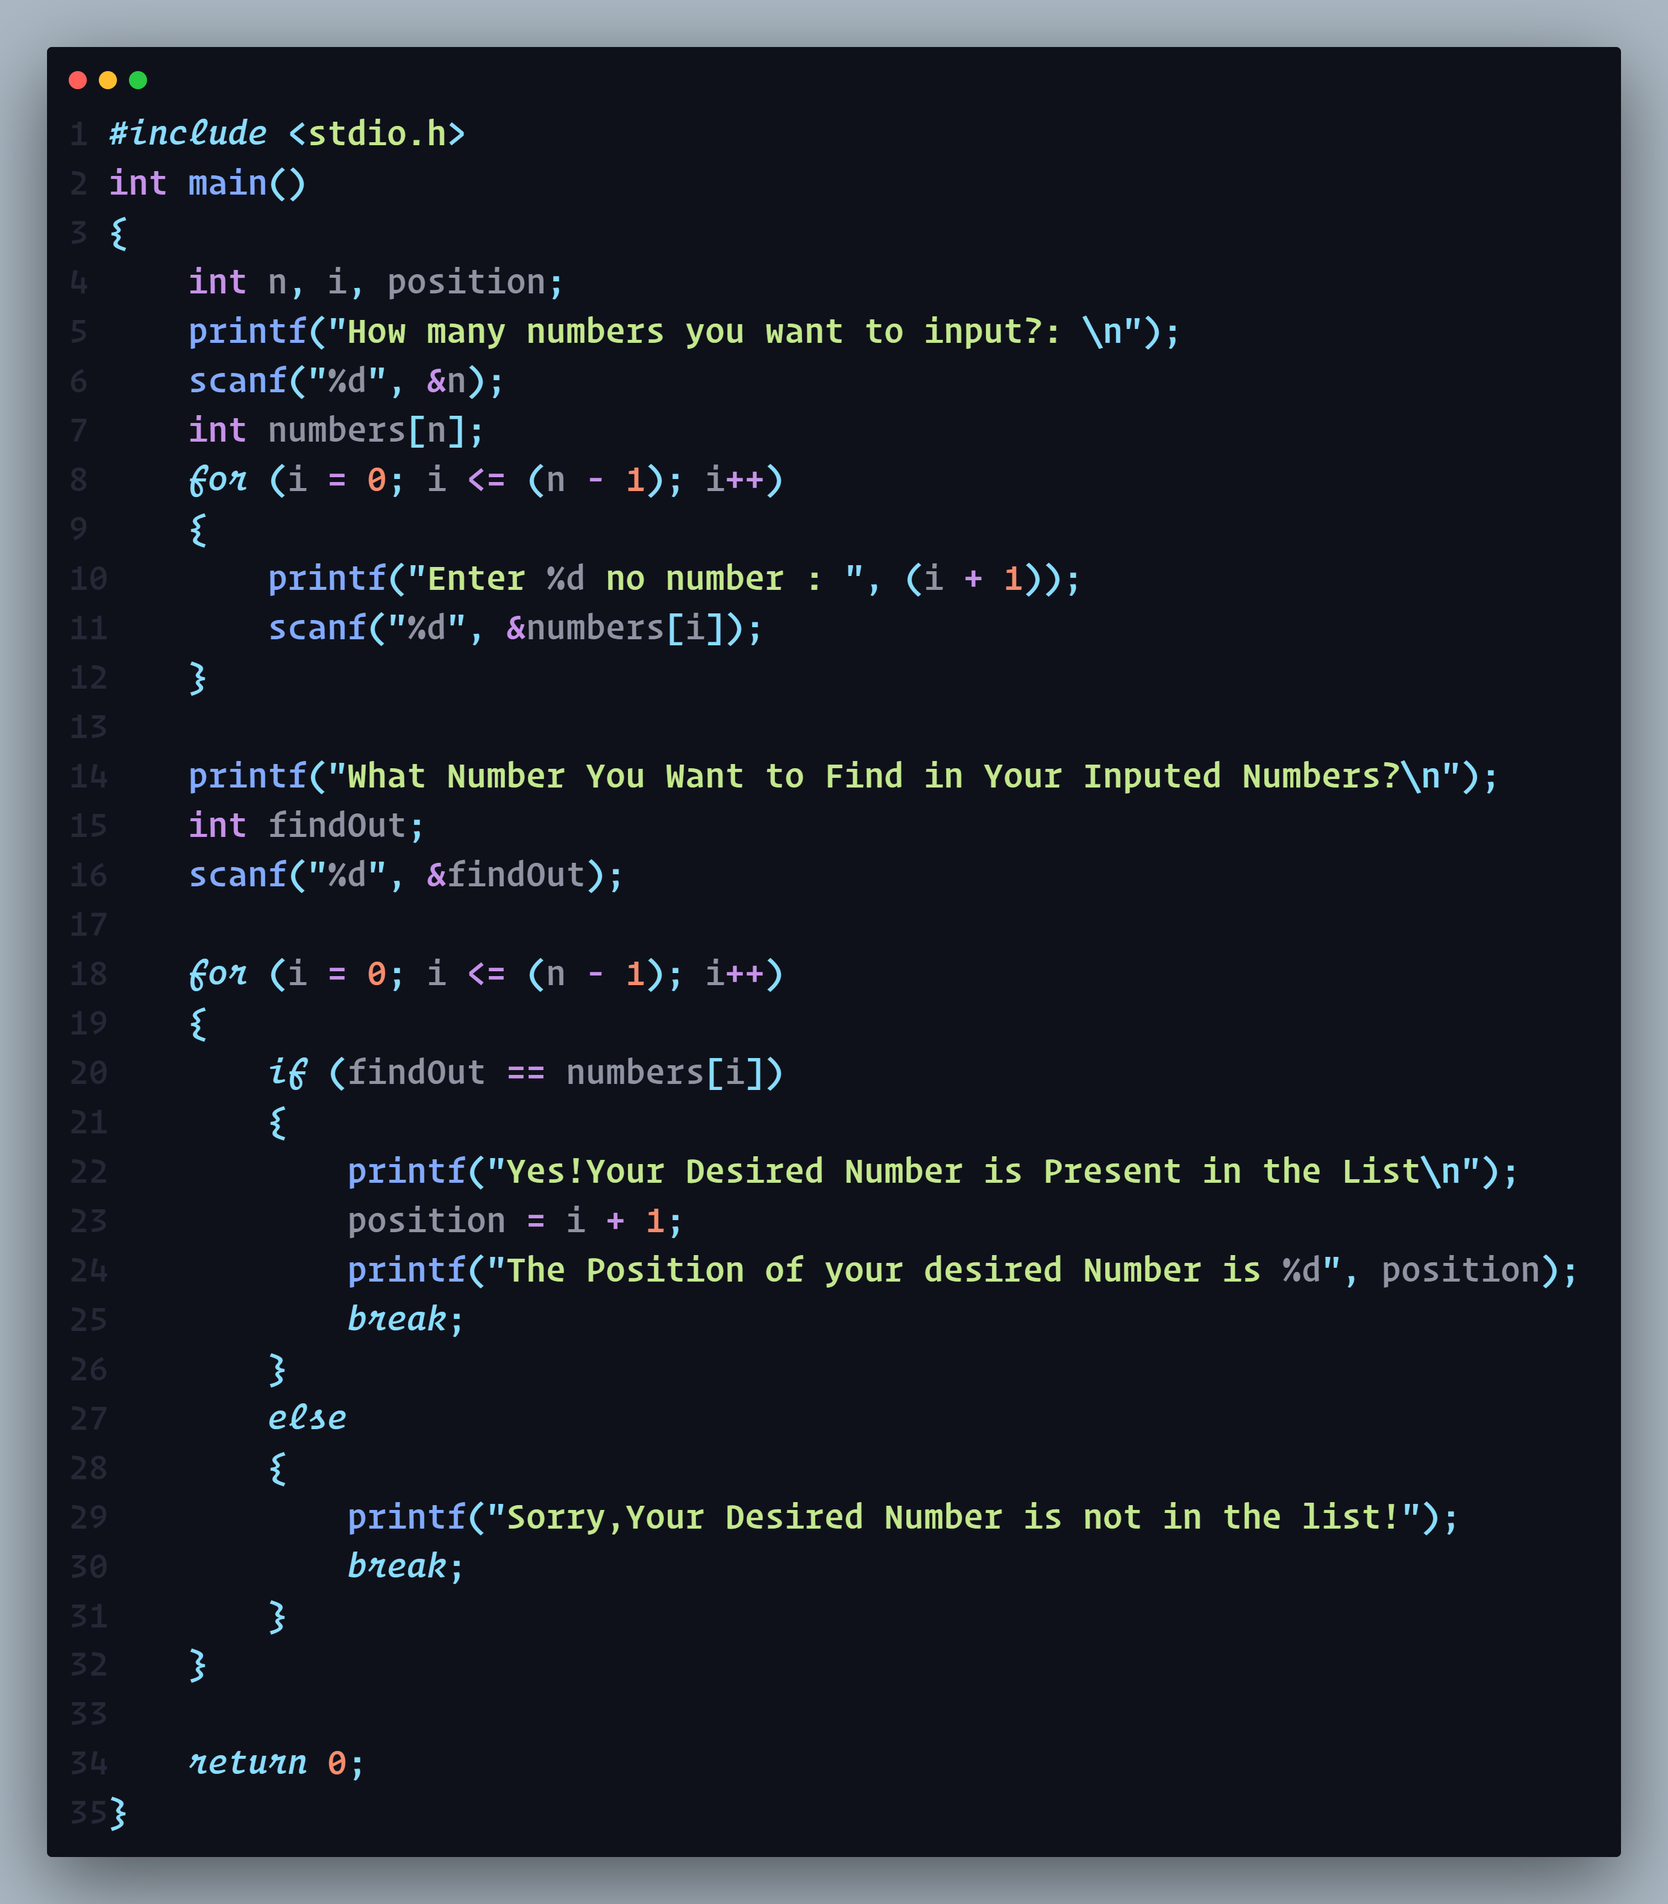
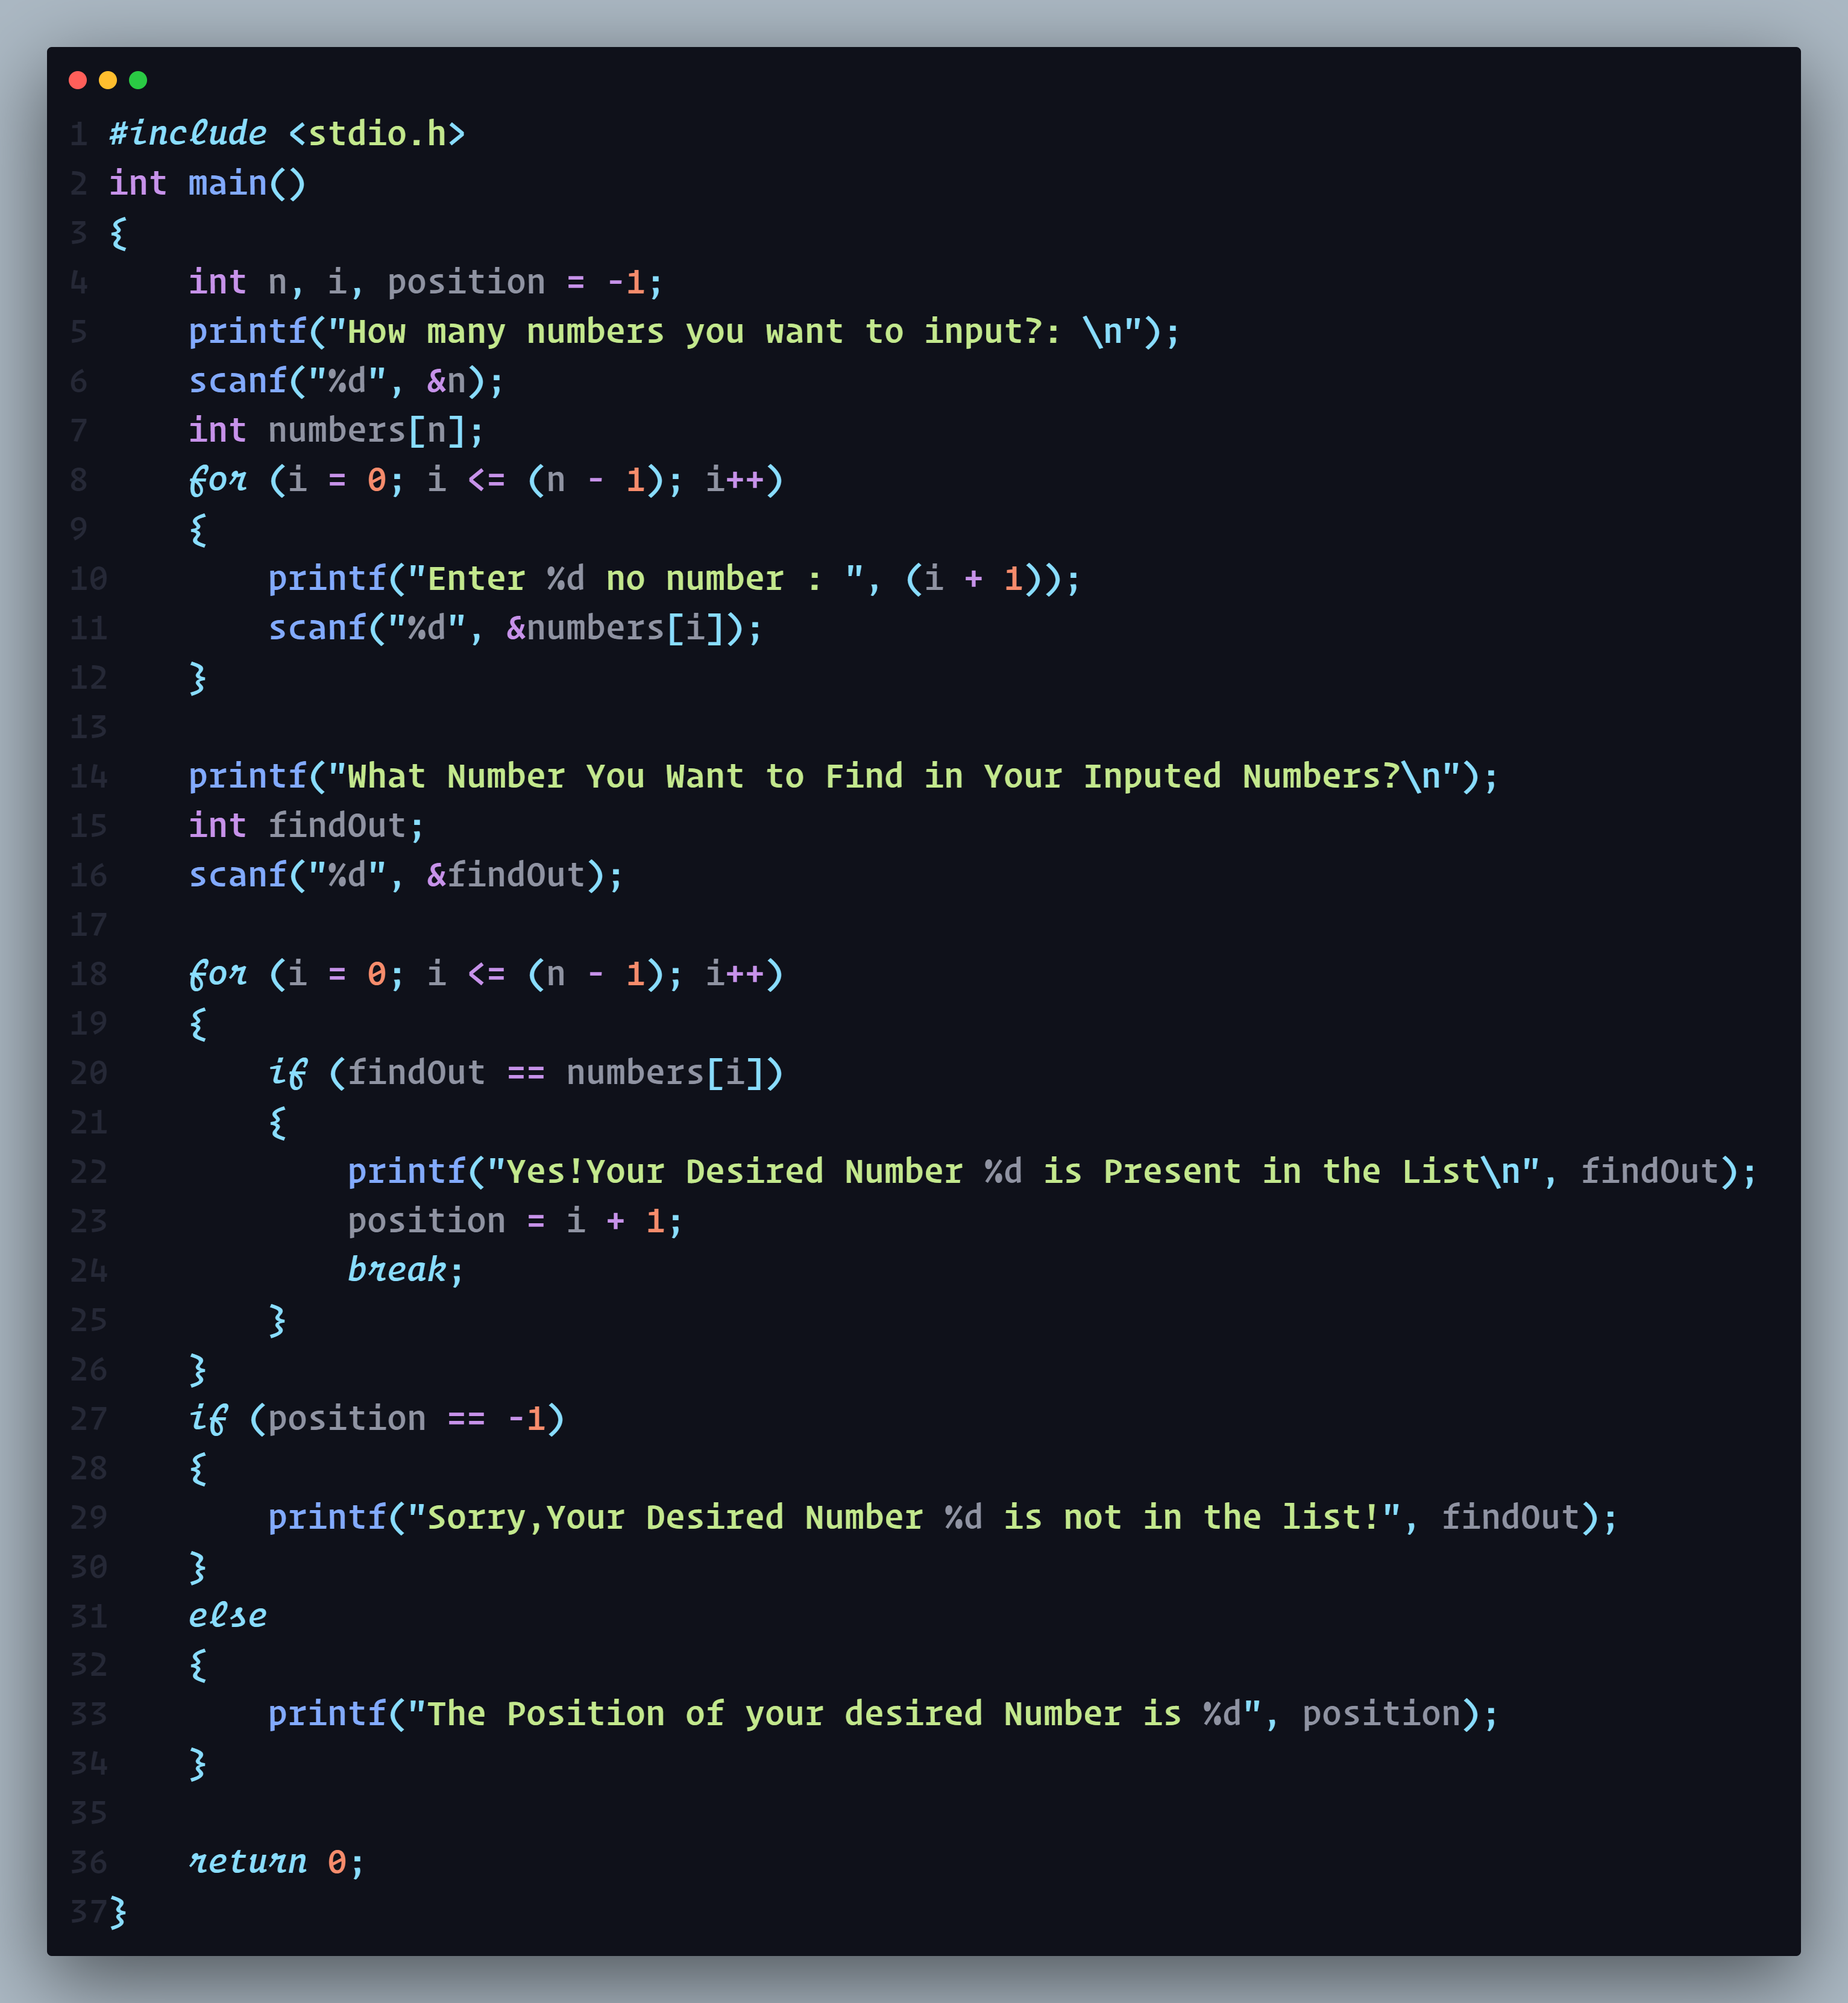
Wrong Output in Linear Search Fixed

diff --git a/Array/Practise problem of Array/LinearSearchInArray.c b/Array/Practise problem of Array/LinearSearchInArray.c
@@ -1,7 +1,7 @@
 #include <stdio.h>
 int main()
 {
-    int n, i, position;
+    int n, i, position = -1;
     printf("How many numbers you want to input?: \n");
     scanf("%d", &n);
     int numbers[n];
@@ -19,16 +19,18 @@ int main()
     {
         if (findOut == numbers[i])
         {
-            printf("Yes!Your Desired Number is Present in the List\n");
+            printf("Yes!Your Desired Number %d is Present in the List\n", findOut);
             position = i + 1;
-            printf("The Position of your desired Number is %d", position);
             break;
         }
-        else
-        {
-            printf("Sorry,Your Desired Number is not in the list!");
-            break;
-        }
+    }
+    if (position == -1)
+    {
+        printf("Sorry,Your Desired Number %d is not in the list!", findOut);
+    }
+    else
+    {
+        printf("The Position of your desired Number is %d", position);
     }
 
     return 0;
